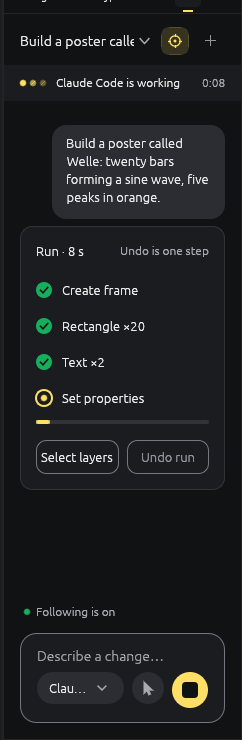
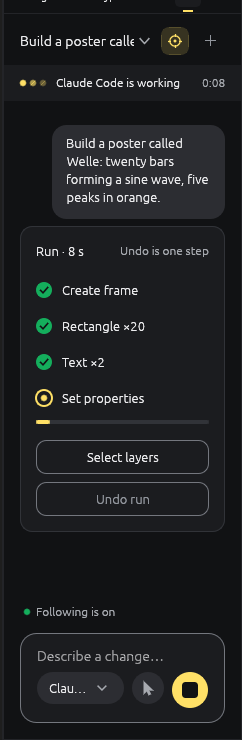
Fix Y2: the run card's buttons stack at narrow widths
Below a 300 px panel (the panel's own width; inside the transcript a
scroll bar's room is taken off) Select layers and Undo run stack, each the
full width, 34 high, 8 apart; from 300 px they sit side by side, equal.
They also stack wherever a label wouldn't keep 12 px from its button's
edges in half the width (a longer language). ui.inspect gives the card's
stacking and its buttons' and labels' rectangles.

Test at 240, 280, 300 and 336 px in both themes: stacked below 300 only,
34 high, 8 apart, inside the card, no overlap, each label 12 px inside
its button. The 240 px mid-run captures in docs/scrim-ports/ai-panel/x/
were made again; ai-panel.md and the checklist say so.

diff --git a/crates/ui-egui/src/ai_run_card.rs b/crates/ui-egui/src/ai_run_card.rs
@@ -20,6 +20,10 @@ use crate::panel_view::ai_tab::panel::Seen;
 use crate::panel_view::ai_tab::panel_theme::{Roles, roles};
 use crate::theme::{Tokens, regular, semibold};
 
+/// Below this panel width the card's buttons stack (Fix Y2), and the least room either side of a
+/// button's label.
+const STACK_BELOW: f32 = 300.0;
+const LABEL_PAD: f32 = 12.0;
 /// The banner's height, and the card's rows: how many, and how far apart.
 pub const BANNER_H: f32 = 36.0;
 const ROWS: usize = 5;
@@ -155,13 +159,23 @@ fn card(app: &FigApp, ui: &mut Ui, ro: &Roles, run: &LastRun, seen: &mut Seen) -
     let all = figcraft_engine::cmd::chat_run::rows(&app.session);
     let earlier = all.len().saturating_sub(ROWS);
     let shown: Vec<(String, usize)> = all.into_iter().skip(earlier).collect();
-    let width = ui.available_width() - 32.0;
+    let panel_w = ui.available_width();
+    let width = panel_w - 32.0;
     let inner = width - 32.0;
     let rows_h = shown.len() as f32 * ROW + if earlier > 0 { 24.0 } else { 0.0 };
     // The bar (4 above it, 4 high, 12 below), then 4 more: the buttons 16 below the bar or the rows.
     let bar_h = if working { 4.0 + 4.0 + 12.0 } else { 0.0 };
     // 16 inside, the heading (18), 12, the rows, the bar, 4, the buttons (34), 16 inside.
-    let height = 16.0 + 18.0 + 12.0 + rows_h + bar_h + 4.0 + 34.0 + 16.0;
+    // The buttons side by side, or stacked (Fix Y2): stacked below a 300 px panel, or wherever a
+    // label wouldn't keep 12 px either side in half the width (a longer language, say).
+    let side = (inner - 8.0) / 2.0;
+    let measure = ui.painter().clone();
+    let label_w = |l: &str| measure.layout_no_wrap(l.to_string(), regular(13.0), ro.text).size().x;
+    let widest = label_w(tr("Select layers")).max(label_w(tr("Undo run")));
+    // (The panel's own width: inside the transcript a scroll bar's room is taken off.)
+    let stacked = app.ui.right_width < STACK_BELOW || widest + 2.0 * LABEL_PAD > side;
+    let buttons_h = if stacked { 34.0 + 8.0 + 34.0 } else { 34.0 };
+    let height = 16.0 + 18.0 + 12.0 + rows_h + bar_h + 4.0 + buttons_h + 16.0;
     let (row, _) = ui.allocate_exact_size(vec2(ui.available_width(), height), Sense::hover());
     let r = Rect::from_min_size(pos2(row.min.x + 16.0, row.min.y), vec2(width, height));
     ui.painter().rect_filled(r, CornerRadius::same(12), ro.card);
@@ -218,10 +232,17 @@ fn card(app: &FigApp, ui: &mut Ui, ro: &Roles, run: &LastRun, seen: &mut Seen) -
         y += 4.0 + 12.0;
     }
     y += 4.0;
-    // The two buttons, equal, 34 high, 8 apart.
-    let bw = (inner - 8.0) / 2.0;
-    let select = Rect::from_min_size(pos2(x, y), vec2(bw, 34.0));
-    let undo = select.translate(vec2(bw + 8.0, 0.0));
+    // The two buttons, 34 high, 8 apart: equal, side by side, or each the full width, stacked.
+    let (select, undo) = if stacked {
+        let select = Rect::from_min_size(pos2(x, y), vec2(inner, 34.0));
+        (select, select.translate(vec2(0.0, 34.0 + 8.0)))
+    } else {
+        let select = Rect::from_min_size(pos2(x, y), vec2(side, 34.0));
+        (select, select.translate(vec2(side + 8.0, 0.0)))
+    };
+    let label_rect = |r: Rect, l: &str| Rect::from_center_size(r.center(), vec2(label_w(l), 13.0));
+    let rect = |r: Rect| json!([r.min.x, r.min.y, r.max.x, r.max.y]);
+    let (sel_label, undo_label) = (label_rect(select, tr("Select layers")), label_rect(undo, tr("Undo run")));
     let mut asked = None;
     if card_button(ui, ro, select, tr("Select layers"), None).clicked() {
         asked = Some(("chat.select-run-layers", json!({})));
@@ -240,6 +261,9 @@ fn card(app: &FigApp, ui: &mut Ui, ro: &Roles, run: &LastRun, seen: &mut Seen) -
         "progress": working,
         "buttons": [tr("Select layers"), tr("Undo run")],
         "undoEnabled": !working,
+        "stacked": stacked,
+        "buttonRects": [rect(select), rect(undo)],
+        "labelRects": [rect(sel_label), rect(undo_label)],
         "rect": [r.min.x, r.min.y, r.max.x, r.max.y],
     }));
     if working {

diff --git a/crates/ui-egui/src/ai_panel_tests.rs b/crates/ui-egui/src/ai_panel_tests.rs
@@ -779,3 +779,49 @@ fn the_lines_never_clip_at_240_320_and_400() {
         }
     }
 }
+
+/// Fix Y2: the run card's buttons are side by side and equal from a 300 px panel, and stacked, each
+/// the full width, below it; 34 high, 8 apart, never overlapping or clipped, and each label keeps
+/// at least 12 px from its button's edges.
+#[test]
+fn the_card_buttons_stack_below_300_px_and_keep_their_labels_padded() {
+    use crate::follow_agent::chat_ui::tests::send_allowed;
+    use crate::follow_agent::tests::agent;
+    for dark in [false, true] {
+        for w in [240.0, 280.0, 300.0, 336.0] {
+            let (mut u, _) = window();
+            u.app.session.prefs.theme = if dark { "dark" } else { "light" }.into();
+            u.app.ui.right_width = w;
+            send_allowed(&mut u, "Build a poster");
+            u.frame(vec![]);
+            agent(&mut u, "frame.create", json!({"x": 400, "y": 0, "width": 300, "height": 200}));
+            u.frame(vec![]);
+            let card = panel(&u)["card"].clone();
+            let rects = |k: &str| -> Vec<Vec<f64>> {
+                card[k].as_array().unwrap().iter().map(|r| r.as_array().unwrap().iter().map(|x| x.as_f64().unwrap()).collect()).collect()
+            };
+            let (buttons, labels, c) =
+                (rects("buttonRects"), rects("labelRects"), card["rect"].as_array().unwrap().iter().map(|x| x.as_f64().unwrap()).collect::<Vec<_>>());
+            let stacked = card["stacked"].as_bool().unwrap();
+            assert_eq!(stacked, w < 300.0, "{dark} {w}: stacked below 300 px only");
+            let (a, b) = (&buttons[0], &buttons[1]);
+            for r in [a, b] {
+                assert!((r[3] - r[1] - 34.0).abs() < 0.5, "{dark} {w}: 34 high {r:?}");
+                assert!(r[0] >= c[0] + 15.5 && r[2] <= c[2] - 15.5, "{dark} {w}: inside the card's padding {r:?} in {c:?}");
+            }
+            if stacked {
+                assert!((a[2] - a[0] - (b[2] - b[0])).abs() < 0.5 && (b[1] - a[3] - 8.0).abs() < 0.5, "{dark} {w}: full width, 8 apart");
+                assert!((a[2] - a[0] - (c[2] - c[0] - 32.0)).abs() < 0.5, "{dark} {w}: each the full width");
+            } else {
+                assert!(
+                    (a[2] - a[0] - (b[2] - b[0])).abs() < 0.5 && (b[0] - a[2] - 8.0).abs() < 0.5 && (a[1] - b[1]).abs() < 0.5,
+                    "{dark} {w}: equal, side by side, 8 apart"
+                );
+            }
+            assert!(a[3] <= b[1] || a[2] <= b[0], "{dark} {w}: no overlap");
+            for (r, l) in buttons.iter().zip(&labels) {
+                assert!(l[0] >= r[0] + 12.0 - 0.5 && l[2] <= r[2] - 12.0 + 0.5, "{dark} {w}: the label {l:?} keeps 12 px inside {r:?}");
+            }
+        }
+    }
+}

diff --git a/docs/checklists/chat.md b/docs/checklists/chat.md
@@ -27,3 +27,5 @@ The design: `docs/design/chat-composer.md`.
 | X3: the composer is a radius-16 box 16 from the panel's edges, at least 88 high, with the agent chip, Selection, an image chip and a 36 px Send/Stop; the gear is gone and "Agent settings…" ends the agent menu; narrow panels get round chips | Open the agent menu; narrow the panel to 240 px | `ai_panel_tests.rs` › `the_composer_follows_the_design_and_its_menu_opens_agent_settings`, `at_its_minimum_width_nothing_is_clipped_or_scrolls_sideways` |
 | X4: while a run goes, the working banner, your message as a bubble, and the run's card (rows from the change log, the newest active, an indeterminate bar, Undo run held); when it ends, "Done", no bar; Select layers selects what the run touched; Undo run restores the document as one undo step, refused during the run or after your edits | Run a change from the composer, then press Select layers and Undo run | `ai_panel_tests.rs` › `the_run_shows_a_banner_a_bubble_and_a_card_with_the_edits`, `crates/engine/src/cmd/chat_run_tests.rs` (5) |
 | X5: every role of the AI panel reads (4.5:1 for marks, glyphs, checks and text; 3:1 for edges) in both themes with every accent, `#FFE066` and `#1F3BFF`; `ui.inspect` › `agent.aiPanel.theme` gives the drawn colours; nothing clips mid-run at 240, 320 and 400 px | Change the accent in Settings and look at the panel mid-run | `ai_panel_theme_tests.rs` (4), `ai_panel_tests.rs` › `mid_run_nothing_is_clipped_or_scrolls_sideways_at_240_320_and_400`; captures `docs/scrim-ports/ai-panel/x/` |
+| Y1: a missing CLI ("{agent} isn't installed.") or a run that stopped before it began ("{agent} couldn't start: is it signed in?") is a visible line 8 above the status line with an Agent settings link; the second can be dismissed and goes when a run starts | Uninstall the agent, or let a run fail at once | `ai_panel_tests.rs` › `a_failed_start_says_what_to_do_until_dismissed_or_a_run_starts`, `a_missing_cli_says_so_with_the_agent_settings_link`, `the_lines_never_clip_at_240_320_and_400` |
+| Y2: the run card's buttons stack below a 300 px panel (each full width, 8 apart) and sit side by side from 300 px; labels keep 12 px from the edges | Narrow the panel to 240 and widen it to 336 mid-run | `ai_panel_tests.rs` › `the_card_buttons_stack_below_300_px_and_keep_their_labels_padded`; captures `docs/scrim-ports/ai-panel/x/*-240-*` |

diff --git a/docs/design/ai-panel.md b/docs/design/ai-panel.md
@@ -35,6 +35,8 @@ Rebuilt to Scrim's AI panel design, in dark and light; the reference was frames 
       - **The rows:** 36 apart, the run's agent edits from the change log (decision 15), the newest 5, with "{n} earlier" above when there are more. A done row is a `t.success` circle with a check that reads on it; while the run works, the newest is active (a 2 px accent ring and dot, its label SemiBold). No pending rows (decision 16).
       - **The bar:** while it works, a 4 px indeterminate bar (a 30 % accent segment moving along the `t.border_strong` track; still with reduced motion), gone when the run ends. No percentage (decision 16).
       - **Two buttons:** 34 high, radius 10, 8 apart, 16 below the bar or the rows. Select layers runs `chat.select-run-layers`; Undo run runs `chat.undo-run`, held while the run goes (decision 17).
+        - **From a 300 px panel** they sit side by side, equal.
+        - **Below 300 px** they stack, each the full width (Fix Y2). They also stack wherever a label wouldn't keep 12 px from its button's edges in half the width, as a longer language's might.
 - **The status line**, always 10 above the composer: a 6 px dot at 20 and Inter 12 at 32. "Following is on" with a `t.success` dot, or "Following is off" with a secondary one. The grace hint's line and the missing-CLI line stay above it.
 - **The composer**, pinned to the bottom, 16 from the panel's left, right and bottom, with no rule above it (`ai_composer.rs`, `ai_chips.rs`):
   - **The box:** radius 16, `t.field`, its edge `theme::field_stroke`; 16 left and right and 14 top and bottom inside; at least 88 high, growing with the text.

diff --git a/docs/scrim-ports/ai-panel/x/README.md b/docs/scrim-ports/ai-panel/x/README.md
@@ -23,7 +23,7 @@ Names: `x-{theme}-{accent}-{width}-{state}.png`.
   - With `#FFE066` on light, the marks and Send's fill are darkened to an olive. Every role keeps its contrast (Fix X5's test), but this is the one look that may not be what a person picking a pale yellow expects.
 - **At 240 px** nothing is clipped.
   - The agent chip reads "Clau…", and Selection becomes a round icon chip (Fix X3).
-  - "Select layers" is tight in its button but whole.
+  - Since Fix Y2 the card's buttons stack at 240 px, each the full width, so "Select layers" has room. The 240 px mid-run captures were made again for it.
   - Your message wraps to four lines.
 - **Not like the design:**
   - **The font:** the harness draws with egui's default font, not Inter. The real app has Inter (`assets/fonts/`), so its weights and widths differ from these.
